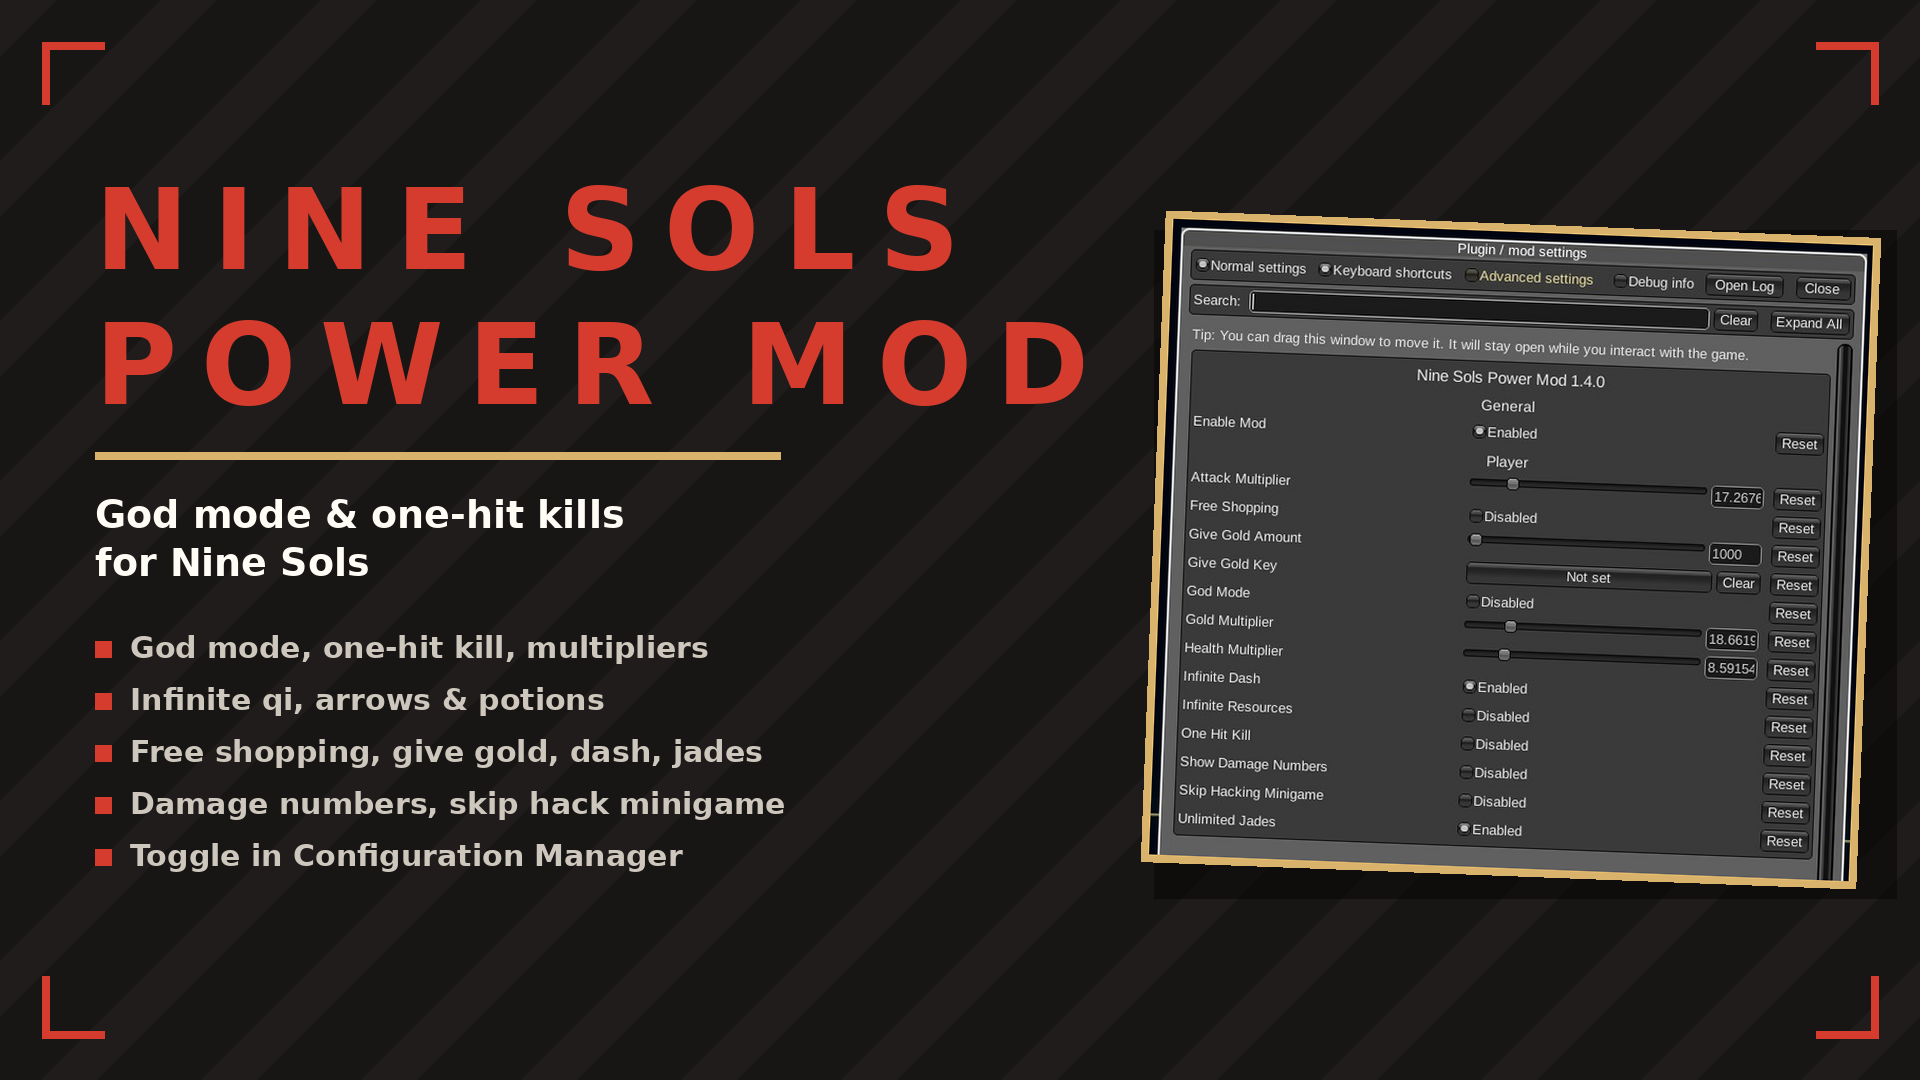
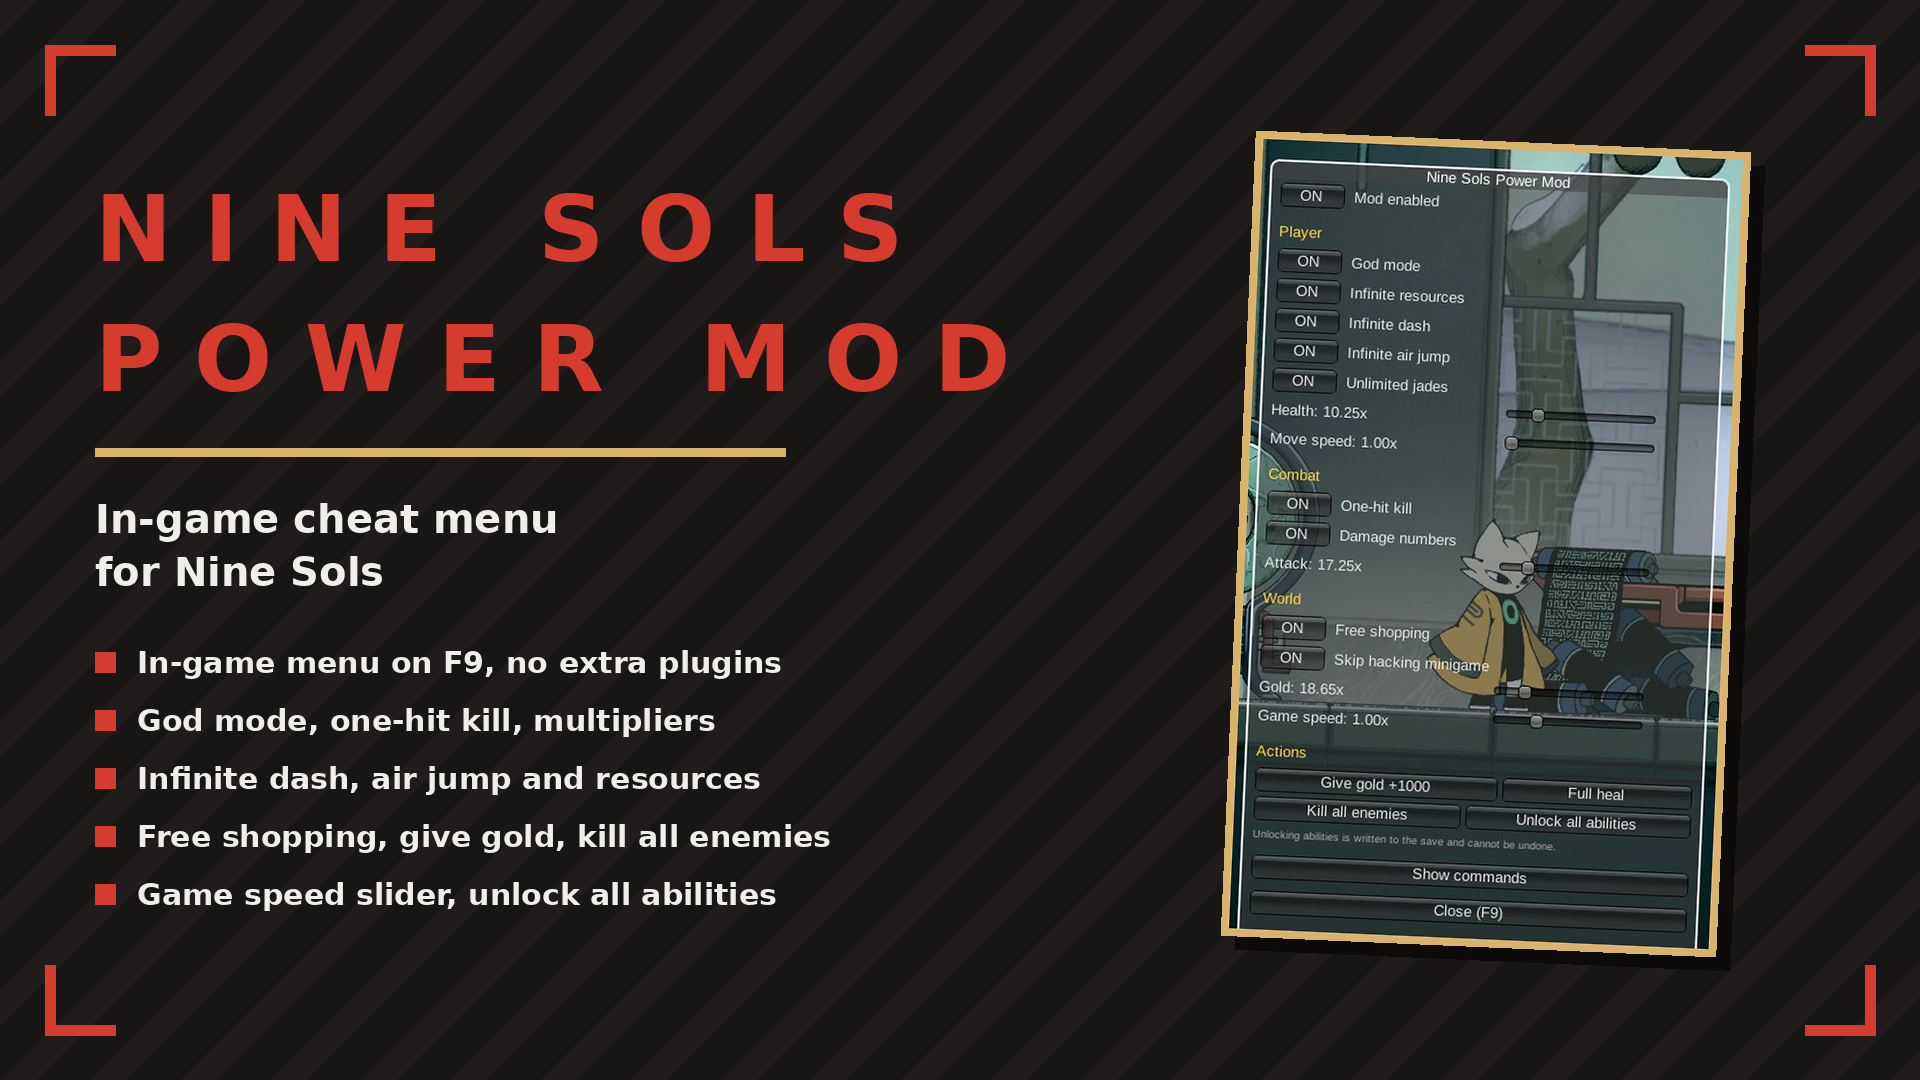
NineSolsPowerMod 2.0.0

diff --git a/NineSols/NineSolsPowerMod/README.md b/NineSols/NineSolsPowerMod/README.md
@@ -4,16 +4,18 @@
 
 ![cover](screenshots/00-hero.png)
 
-God mode, health/attack/gold multipliers, infinite dash and unlimited jades. Everything toggleable in the Configuration Manager, no restart.
+In-game cheat menu for Nine Sols. Press F9, toggle what you want, no restart and no other plugin needed.
 
 ## ✨ Features
+- In-game menu on F9, everything live
 - God mode, one-hit kill, health / attack / gold multipliers
-- Infinite qi, arrows & potions; infinite dash, unlimited jades
+- Infinite qi, arrows & potions; infinite dash, infinite air jump, unlimited jades
+- Move speed and game speed sliders
 - Free shopping, give gold, damage numbers, skip hacking minigame
-- Toggle in Configuration Manager
+- Full heal, kill all enemies, unlock all abilities
 
 ## 📸 Screenshots
-![1.4.0](screenshots/01-v1.4.0.png)
+![menu](screenshots/01-menu.png)
 
 ## 🌍 Translating
 Texts live in `I18n.cs`, one dictionary per language keyed by the English string. To add a
